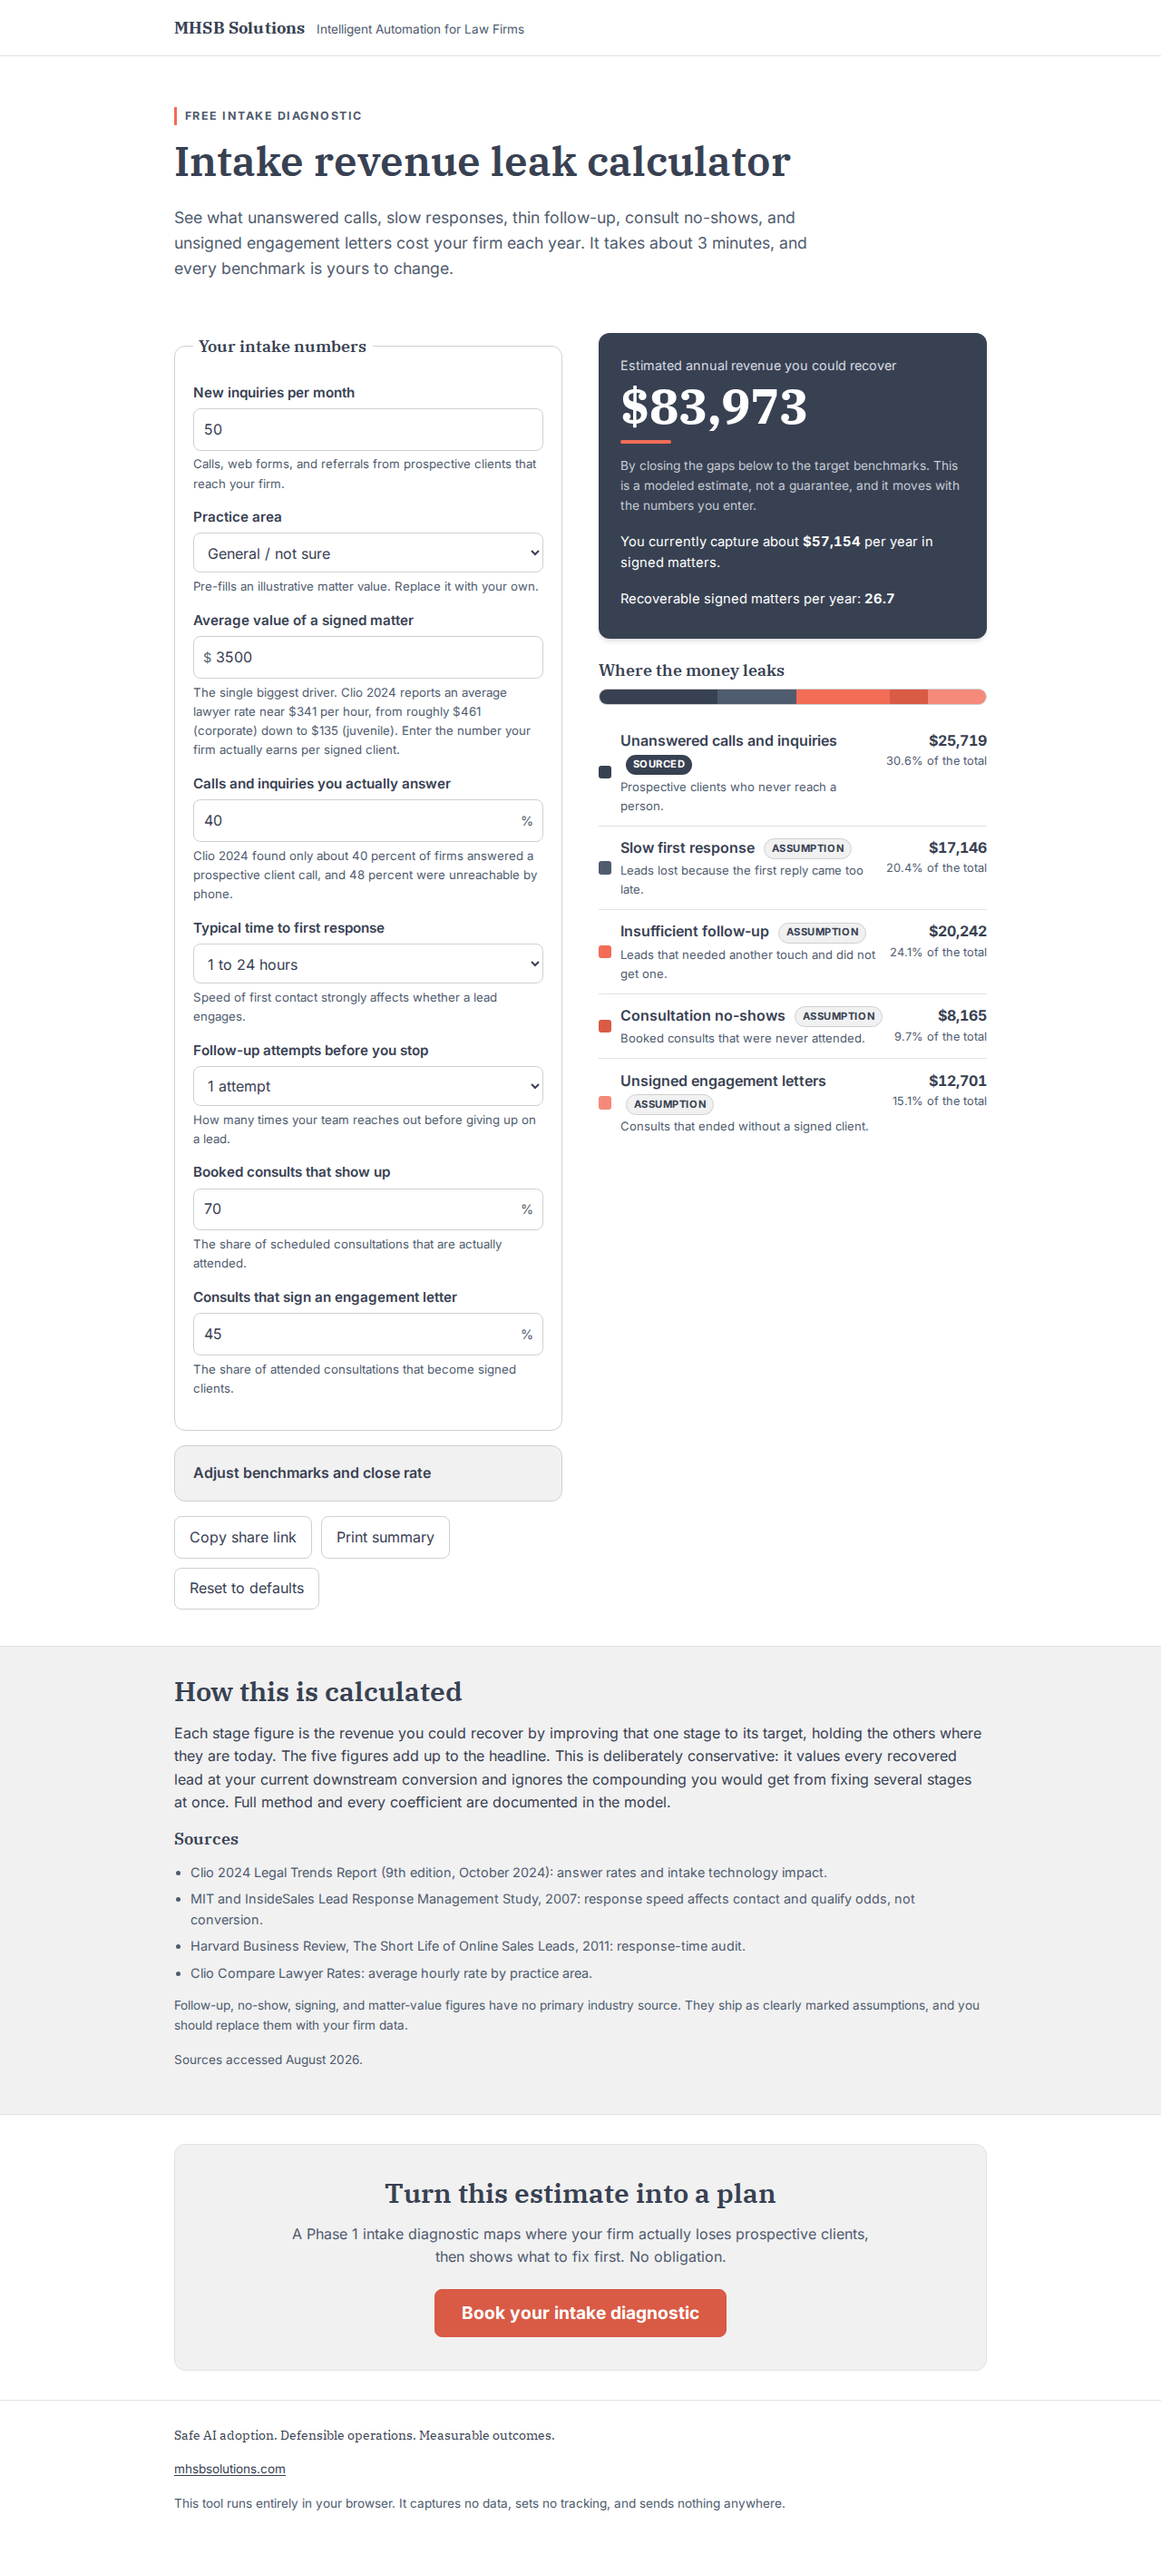
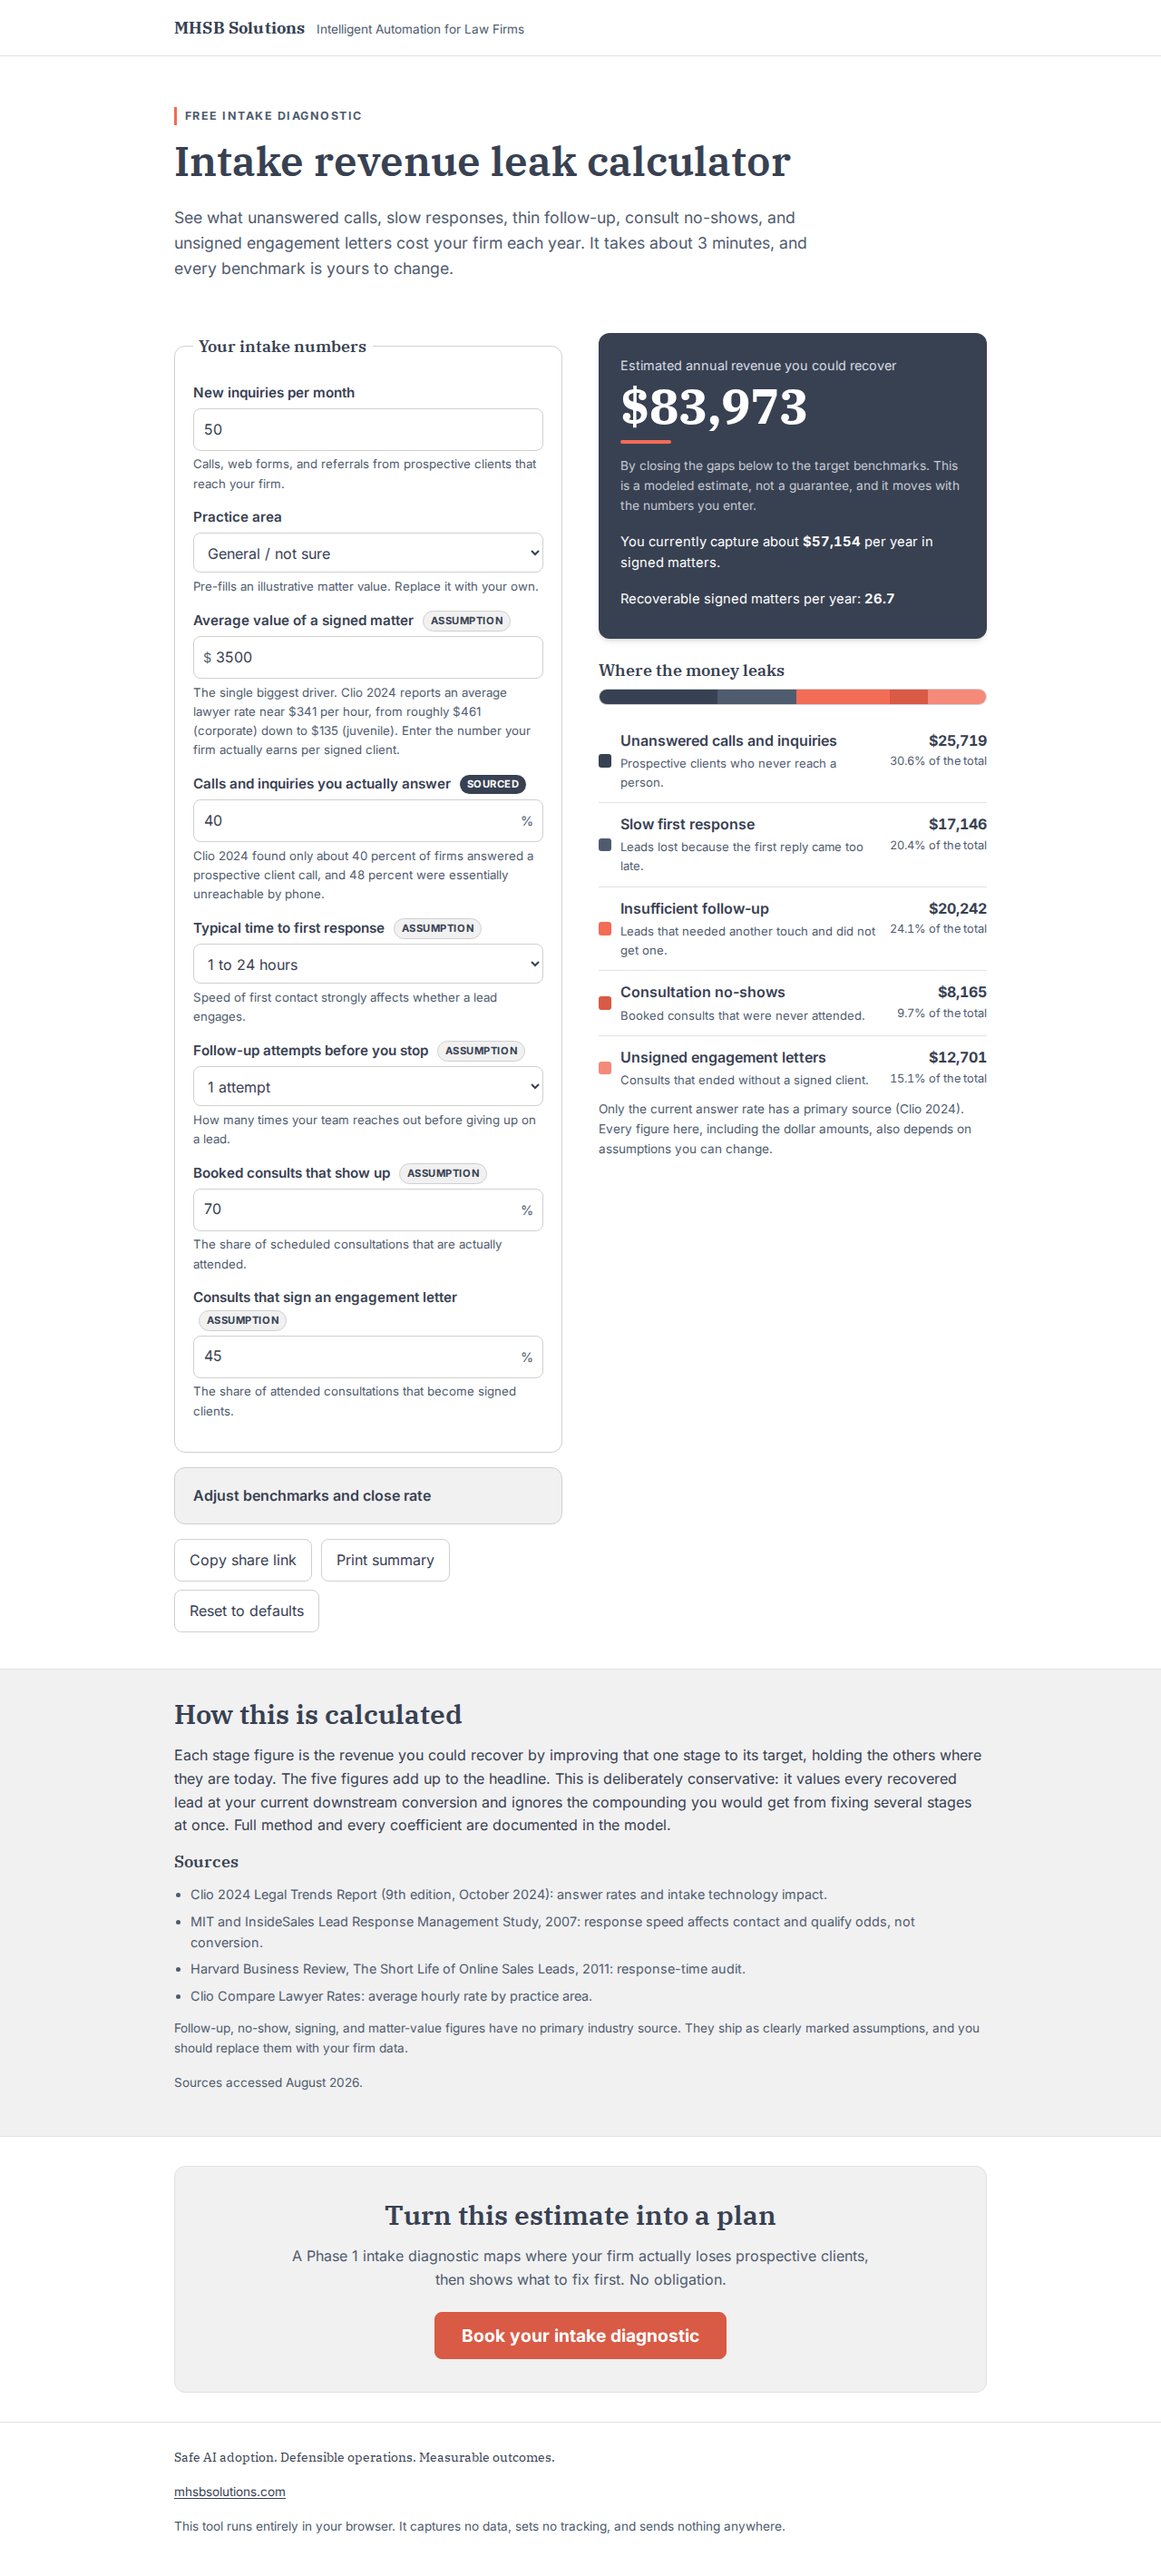
Address adversarial review: honest coefficient badges, a11y, robustness
Gate 3 skeptic (300k fuzz) + web-design review findings, all fixed:
- F1 (must-fix): move sourced/assumption grading onto input coefficients and
  drop the misleading badge on computed result dollars; add a basis note that
  only the current answer rate is sourced and all dollars depend on assumptions.
- computeLeak is now total (guards null/undefined containers).
- Form and share URL echo clamped values (normalize on commit).
- Restore "essentially unreachable"; render the at-target note.
- a11y: aria-describedby + visually-hidden units; tabular-nums on the share
  column; target inputs named; translate="no" on brand identifiers.
- Debounced + guarded history.replaceState; submit preventDefault; summary hover.

Add CALCULATOR_REPORT.md with gate evidence, both adversarial passes, and the
exact queued human deploy actions (Vercel project, env=none, DNS). Re-captured
screenshot and build log. All gates green: 22 unit, 8 e2e/a11y (0 violations),
brand lint clean, astro check 0 errors.

diff --git a/src/lib/ui.ts b/src/lib/ui.ts
@@ -1,10 +1,17 @@
 /**
  * Client-side controller. Reads the form, computes with the pure model, updates
  * the results and the URL, and wires copy / print / reset. No network, no
- * analytics. Screen-reader status is debounced so typing is not announced on
- * every keystroke.
+ * analytics. Values are clamped to model bounds and echoed back on commit, so
+ * the fields and the share URL never misrepresent the estimate. Screen-reader
+ * status and URL writes are debounced.
  */
-import { computeLeak, STAGE_ORDER, type Result } from "./model";
+import {
+  computeLeak,
+  STAGE_ORDER,
+  clamp01,
+  clampNonNeg,
+  type Result,
+} from "./model";
 import { formatMoney, formatPercent, formatCount } from "./format";
 import {
   PRACTICE_PRESETS,
@@ -19,6 +26,9 @@ import {
   type FullState,
 } from "./urlState";
 import { COPY } from "./copy";
+
+const MAX_INQ = 100000;
+const MAX_MV = 10000000;
 
 const byId = (id: string) => document.getElementById(id);
 const pct = (f: number) => Math.round(f * 1000) / 10;
@@ -62,6 +72,25 @@ function readForm(): FullState {
       show: inputVal("tShow", pct(DEFAULT_STATE.target.show)) / 100,
       signing: inputVal("tSigning", pct(DEFAULT_STATE.target.signing)) / 100,
     },
+  };
+}
+
+/** Clamp every field to model bounds so the form and URL never lie. */
+function normalize(s: FullState): FullState {
+  const clampRates = (r: FullState["current"]) => ({
+    answer: clamp01(r.answer),
+    response: clamp01(r.response),
+    followup: clamp01(r.followup),
+    show: clamp01(r.show),
+    signing: clamp01(r.signing),
+  });
+  return {
+    inquiriesPerMonth: clampNonNeg(s.inquiriesPerMonth, MAX_INQ),
+    avgMatterValue: clampNonNeg(s.avgMatterValue, MAX_MV),
+    practiceArea: s.practiceArea,
+    closeRate: clamp01(s.closeRate),
+    current: clampRates(s.current),
+    target: clampRates(s.target),
   };
 }
 
@@ -140,27 +169,50 @@ function render(state: FullState): void {
   setText("matters-value", formatCount(r.recoverableMattersPerYear));
 
   const empty = byId("empty-note");
-  if (empty) empty.hidden = r.headlineLeak !== 0;
+  if (empty) (empty as HTMLElement).hidden = r.headlineLeak !== 0;
 
   for (const key of STAGE_ORDER) {
     const s = r.stages.find((x) => x.key === key);
     if (!s) continue;
     setText(`amount-${key}`, formatMoney(s.leak));
-    setText(`share-${key}`, formatPercent(s.sharePct));
+    const atTarget = s.target <= s.current;
+    setText(
+      `share-${key}`,
+      atTarget
+        ? COPY.results.atTargetNote
+        : `${formatPercent(s.sharePct)} ${COPY.results.shareSuffix}`,
+    );
     const seg = byId(`seg-${key}`);
-    if (seg) seg.style.width = `${s.sharePct}%`;
+    if (seg) (seg as HTMLElement).style.width = `${s.sharePct}%`;
   }
 
   renderPrintInputs(state);
   scheduleStatus(r);
 }
 
-function updateURL(state: FullState): void {
-  history.replaceState(null, "", `${location.pathname}?${encodeState(state)}`);
+function writeURLNow(state: FullState): void {
+  try {
+    history.replaceState(null, "", `${location.pathname}?${encodeState(state)}`);
+  } catch {
+    /* Some browsers throttle replaceState; the visible UI already reflects state. */
+  }
 }
 
-function onChange(): void {
-  const state = readForm();
+let urlTimer: number | undefined;
+function updateURL(state: FullState): void {
+  if (urlTimer) window.clearTimeout(urlTimer);
+  urlTimer = window.setTimeout(() => writeURLNow(state), 200);
+}
+
+function handleLive(): void {
+  const state = normalize(readForm());
+  render(state);
+  updateURL(state);
+}
+
+function handleCommit(): void {
+  const state = normalize(readForm());
+  writeForm(state); // echo clamped values back into the fields
   render(state);
   updateURL(state);
 }
@@ -169,32 +221,39 @@ function init(): void {
   const form = byId("calc-form") as HTMLFormElement | null;
   if (!form) return;
 
-  const initial = decodeState(location.search);
+  const initial = normalize(decodeState(location.search));
   writeForm(initial);
   render(initial);
+  // If arriving via a shared link, rewrite the URL to the clamped values.
+  if (location.search) writeURLNow(initial);
 
-  // Selecting a practice area pre-fills the matter value.
+  // Selecting a practice area pre-fills the matter value, then commits.
   const practice = byId("practiceArea") as HTMLSelectElement | null;
   practice?.addEventListener("change", () => {
     const preset = PRACTICE_PRESETS.find((p) => p.id === practice.value);
     const mv = byId("matterValue") as HTMLInputElement | null;
     if (preset && mv) mv.value = String(preset.matterValue);
-    onChange();
+    handleCommit();
   });
 
-  form.addEventListener("input", onChange);
-  form.addEventListener("change", onChange);
+  form.addEventListener("input", handleLive);
+  form.addEventListener("change", handleCommit);
+  form.addEventListener("submit", (e) => e.preventDefault());
 
   byId("btn-reset")?.addEventListener("click", () => {
     writeForm(DEFAULT_STATE);
     render(DEFAULT_STATE);
-    updateURL(DEFAULT_STATE);
+    try {
+      history.replaceState(null, "", location.pathname);
+    } catch {
+      /* ignore */
+    }
   });
 
   byId("btn-print")?.addEventListener("click", () => window.print());
 
   byId("btn-copy")?.addEventListener("click", async () => {
-    updateURL(readForm());
+    writeURLNow(normalize(readForm()));
     const btn = byId("btn-copy");
     try {
       await navigator.clipboard.writeText(location.href);

diff --git a/src/lib/copy.ts b/src/lib/copy.ts
@@ -36,7 +36,7 @@ export const COPY = {
     },
     answerRate: {
       label: "Calls and inquiries you actually answer",
-      help: "Clio 2024 found only about 40 percent of firms answered a prospective client call, and 48 percent were unreachable by phone.",
+      help: "Clio 2024 found only about 40 percent of firms answered a prospective client call, and 48 percent were essentially unreachable by phone.",
     },
     responseTime: {
       label: "Typical time to first response",
@@ -56,7 +56,7 @@ export const COPY = {
     },
     advancedToggle: "Adjust benchmarks and close rate",
     advancedIntro:
-      "These are the improved targets the estimate compares against, plus the rate at which signed matters become paying work. Every one is editable.",
+      "These are the improved targets the estimate compares against, plus the rate at which signed matters become paying work. All of them are assumptions, and every one is editable.",
     targetPrefix: "Target",
     closeRate: {
       label: "Signed matters that become paying work",
@@ -74,6 +74,8 @@ export const COPY = {
     capturedSuffix: "per year in signed matters.",
     mattersLabel: "Recoverable signed matters per year",
     breakdownHeading: "Where the money leaks",
+    basisNote:
+      "Only the current answer rate has a primary source (Clio 2024). Every figure here, including the dollar amounts, also depends on assumptions you can change.",
     shareSuffix: "of the total",
     emptyState:
       "Enter your numbers above to see the estimate. At zero inquiries there is nothing to recover.",
@@ -105,10 +107,11 @@ export const COPY = {
 
   badges: {
     sourced: "Sourced",
-    sourcedTitle: "Backed by a dated, cited source.",
+    sourcedTitle:
+      "The default here is drawn from a dated, cited source (Clio 2024). Your own number replaces it.",
     assumption: "Assumption",
     assumptionTitle:
-      "No primary source exists for this figure. It is a starting point. Replace it with your own.",
+      "No primary source exists for this default. It is a starting point. Replace it with your own.",
   },
 
   actions: {

diff --git a/src/lib/model.ts b/src/lib/model.ts
@@ -105,17 +105,19 @@ function sanitizeRates(r: Rates): Rates {
  * All clamping and NaN guarding happens here, so callers may pass anything.
  */
 export function computeLeak(inputs: Inputs): Result {
+  // Total function: tolerate a null/undefined input or missing rate containers.
+  const inp = (inputs ?? {}) as Partial<Inputs>;
   const inquiriesPerMonth = clampNonNeg(
-    inputs.inquiriesPerMonth,
+    inp.inquiriesPerMonth,
     MAX_INQUIRIES_PER_MONTH,
   );
   const annualInquiries = inquiriesPerMonth * 12;
-  const avgMatterValue = clampNonNeg(inputs.avgMatterValue, MAX_MATTER_VALUE);
-  const closeRate = clamp01(inputs.closeRate);
+  const avgMatterValue = clampNonNeg(inp.avgMatterValue, MAX_MATTER_VALUE);
+  const closeRate = clamp01(inp.closeRate);
   const ev = closeRate * avgMatterValue;
 
-  const current = sanitizeRates(inputs.current);
-  const rawTarget = sanitizeRates(inputs.target);
+  const current = sanitizeRates((inp.current ?? {}) as Rates);
+  const rawTarget = sanitizeRates((inp.target ?? {}) as Rates);
 
   // Effective target is never below current, so no stage yields a negative leak.
   const target: Rates = {

diff --git a/src/styles/global.css b/src/styles/global.css
@@ -89,9 +89,6 @@ a:hover {
   outline-offset: 2px;
   border-radius: 3px;
 }
-.on-dark :focus-visible {
-  outline-color: var(--white);
-}
 
 /* Layout */
 .wrap {
@@ -241,6 +238,9 @@ details.advanced > summary {
   display: flex;
   align-items: center;
 }
+details.advanced > summary:hover {
+  color: var(--slate-deep);
+}
 details.advanced[open] > summary {
   border-bottom: 1px solid var(--border);
   margin-bottom: 0.6rem;
@@ -301,6 +301,7 @@ button {
   text-decoration: none;
   border: 1px solid var(--coral-hover);
   margin-top: 0.4rem;
+  touch-action: manipulation;
 }
 .btn-cta:hover {
   background: var(--coral-press);
@@ -432,6 +433,7 @@ button {
 .leak-share {
   font-size: 0.8rem;
   color: var(--text-secondary);
+  font-variant-numeric: tabular-nums;
 }
 
 /* Badges */

diff --git a/src/lib/model.test.ts b/src/lib/model.test.ts
@@ -127,6 +127,15 @@ describe("computeLeak - edge cases and guards", () => {
     expect(r.ev).toBe(0);
   });
 
+  it("is total: null, undefined, and empty inputs do not throw", () => {
+    for (const bad of [null, undefined, {}, { current: null }, { target: null }]) {
+      const r = computeLeak(bad as unknown as Inputs);
+      expect(r.headlineLeak).toBe(0);
+      expect(Number.isFinite(r.headlineLeak)).toBe(true);
+      expect(r.stages).toHaveLength(5);
+    }
+  });
+
   it("absurd overrides clamp instead of overflowing", () => {
     const r = computeLeak({
       ...clone(DEFAULTS),
